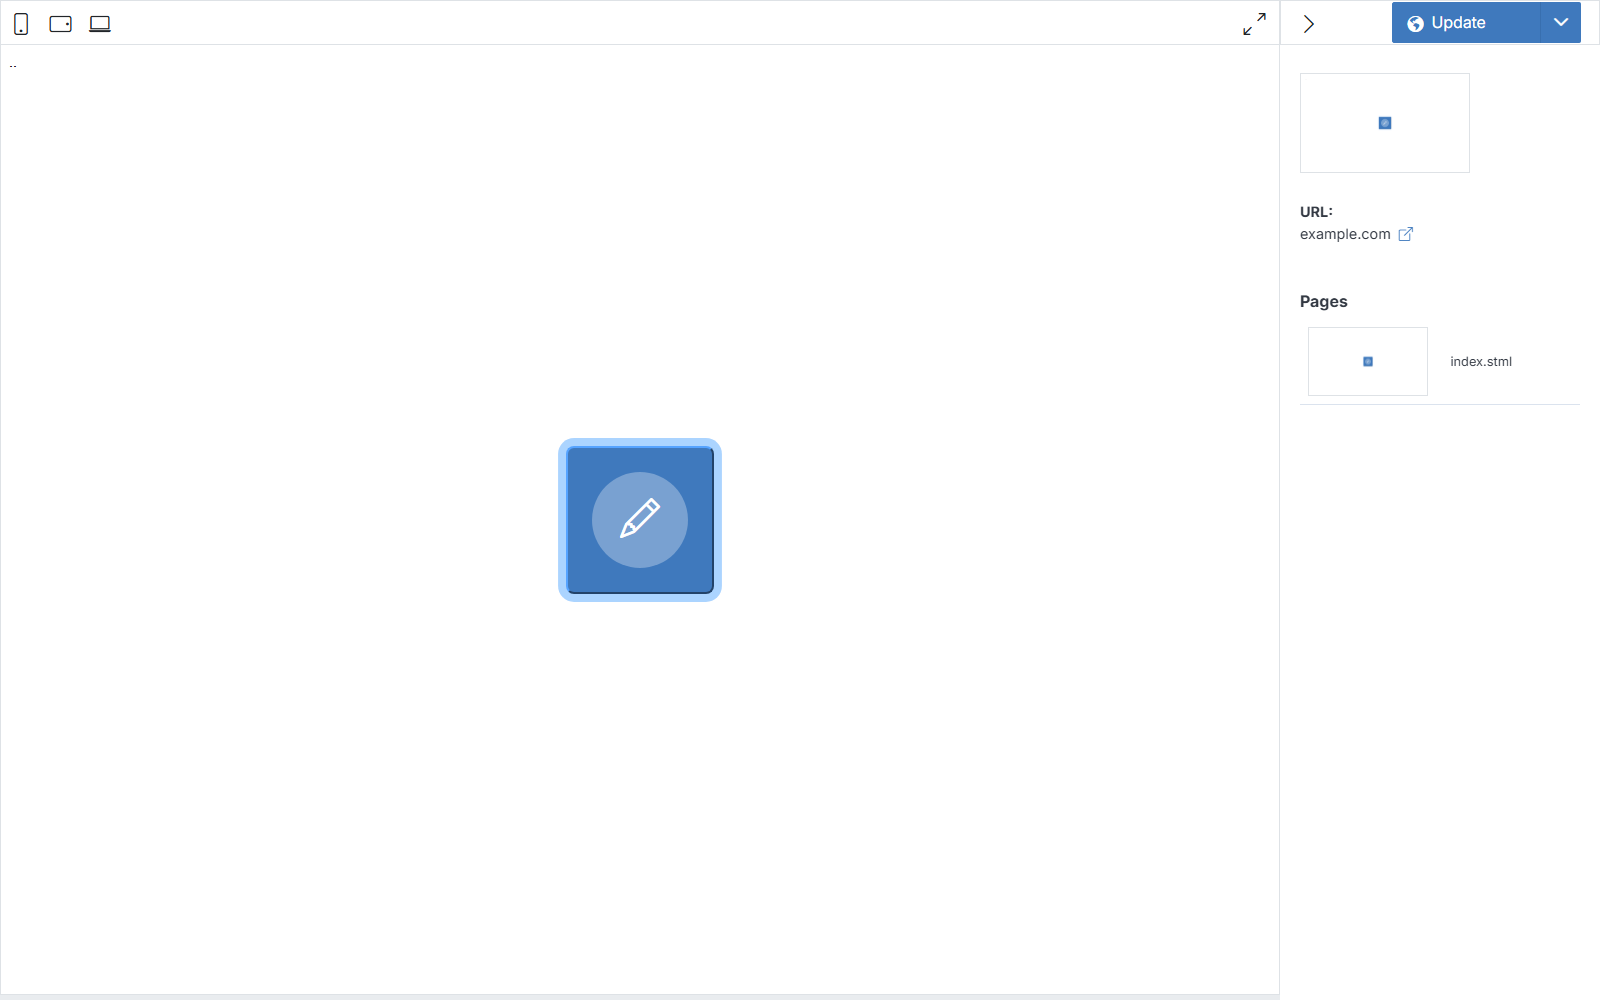
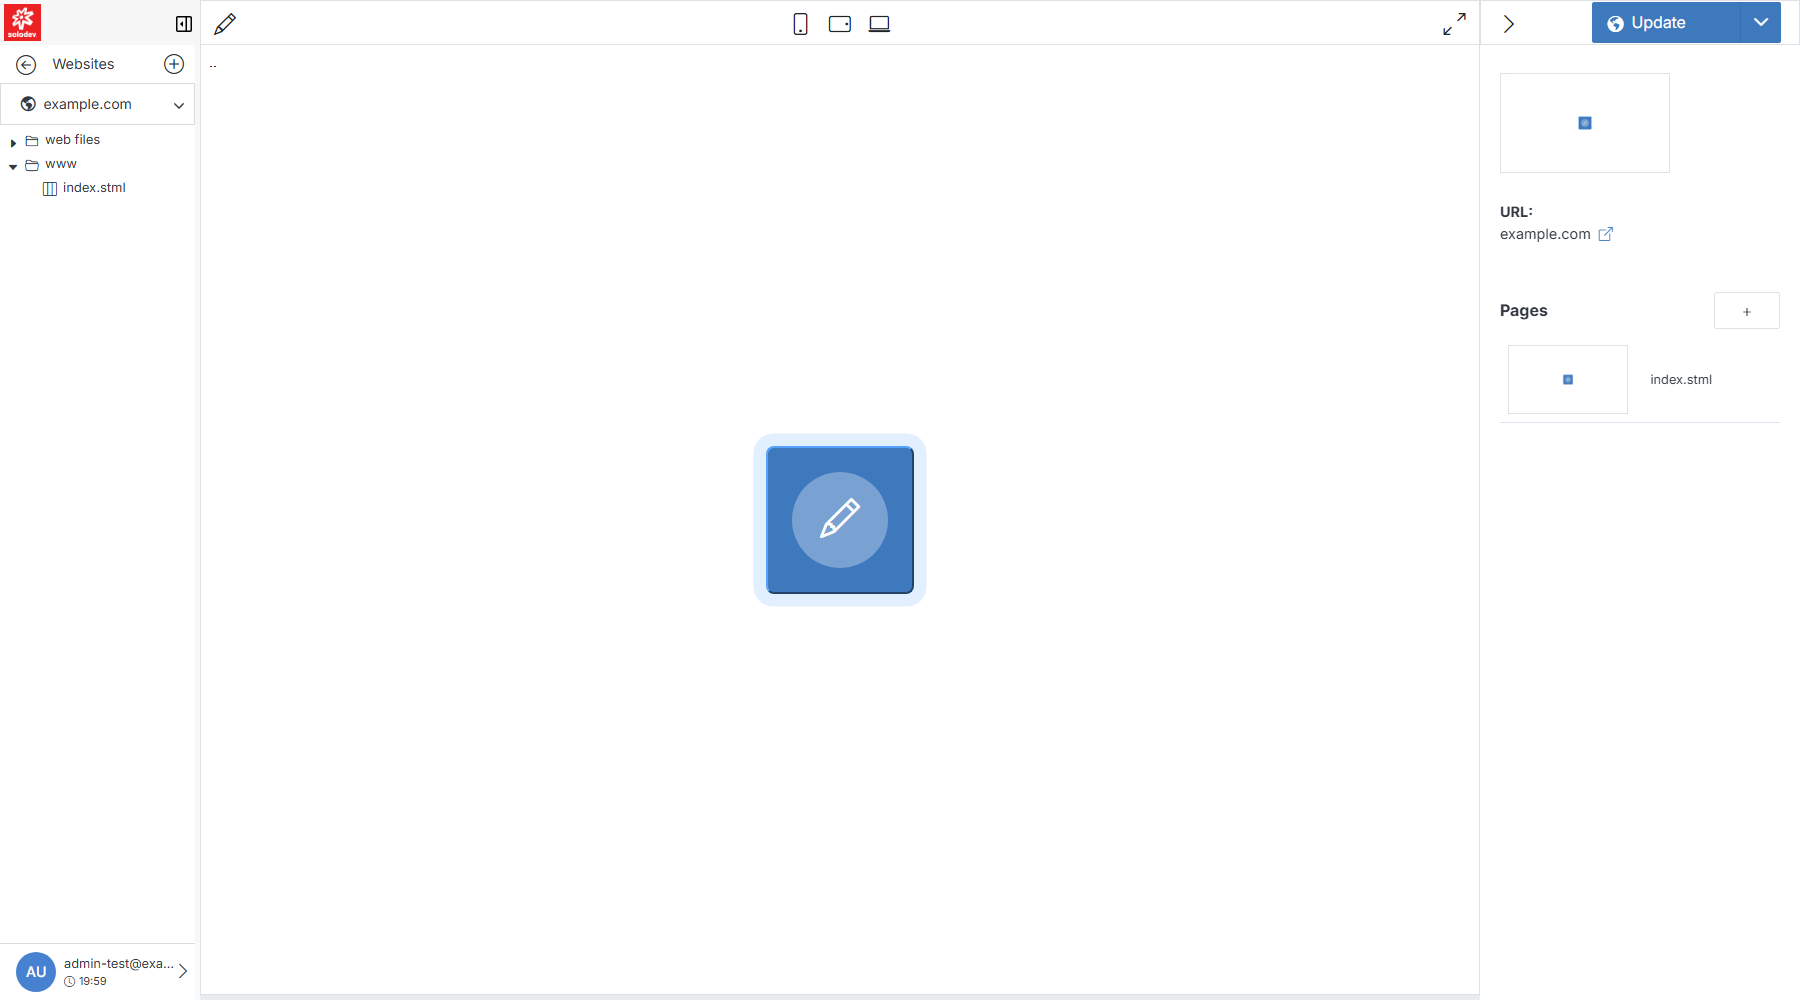
docs: fix Website Overview screenshot to show the real, correct file tree
The earlier screenshot showed the file tree empty -- traced (with the
user) to a real permissions gotcha: being in a group with broad
app-level 'Admin' access isn't the same as having Permissions/Members
on a specific website object, and a freshly created site starts with
none. Granting membership on the website root (not the www subfolder
directly) fixes it and correctly cascades to both web files and www --
confirmed live. Added a Tip explaining this, and refreshed the
screenshot to show the fully working tree (web files, www, index.stml).

This same image is reused on the Add Website page, so that gets the
fix too.

diff --git a/src/Workspace/Websites/Website Overview/index.md b/src/Workspace/Websites/Website Overview/index.md
@@ -14,6 +14,10 @@ After selecting an active website in your Solodev CMS, you're directed to that w
 Click the back arrow or **Websites** at the top of the tree to return to the main [Websites](/workspace/websites) list. 
 !!!
 
+!!!Tip:
+If the file tree looks empty, you (or your group) may not be a member of this website yet -- being in a group with broad app-level access isn't the same as having permissions on this specific website. Add yourself via [Permissions](/workspace/websites/website-overview/permissions/) below.
+!!!
+
 **Center: live preview** &mdash; the toolbar above it has a pencil icon (opens [Update Website](/workspace/websites/website-overview/update-website/) to edit the site title, framework, social links, and other settings), device-width toggles (mobile/tablet/desktop) to preview responsively, and an expand icon for full screen.
 
 **Right: details and actions** &mdash; shows the website's name, description, and thumbnail, followed by its addresses:
